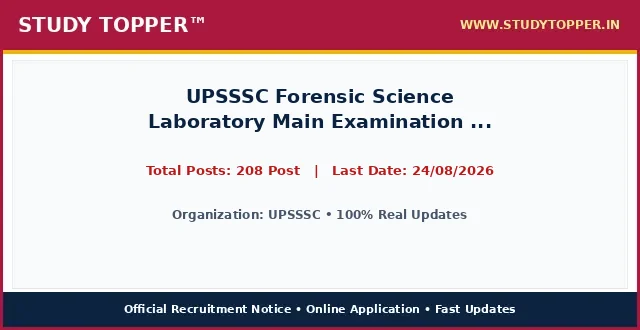
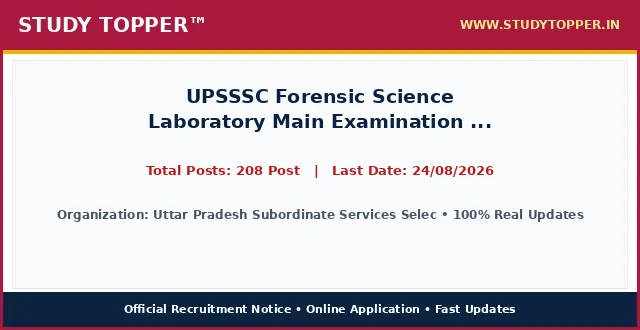
chore(lifecycle): daily auto-sort vacancies and update active dates

Changed region(s): [[0.0938, 0.6364, 0.9375, 0.6667]]

diff --git a/index.html b/index.html
@@ -1580,12 +1580,12 @@ ul.wp-block-latest-posts a:hover {
 </div>
 </div></div>
 <div class="gb-grid-column gb-grid-column-cb185b36"><div class="gb-container gb-container-cb185b36">
-<p class="gb-headline gb-headline-68cafa90 gb-headline-text" style="background-color:#0d13b5 !important; color:#ffffff !important; border-radius:5px !important; min-height:52px !important; height:52px !important; display:flex !important; align-items:center !important; justify-content:center !important; text-align:center !important; padding:4px 6px !important; margin:0 !important; box-sizing:border-box !important; overflow:hidden !important; width:100% !important;"><a href="/rcfl-management-trainee-august26/" rel="noreferrer noopener" style="color:#ffffff !important; text-decoration:none !important; font-weight:700 !important; font-size:13.5px !important; font-family:Arial,Helvetica,sans-serif !important; line-height:1.25 !important; display:flex !important; align-items:center !important; justify-content:center !important; text-align:center !important; width:100% !important; height:100% !important;" target="_blank">RCFL Management Trainee Recruitment 2026 Apply Online for 94 Post - <span class="agy-blinking-badge agy-urgent-blink">2 Days Left!</span></a></p>
+<p class="gb-headline gb-headline-68cafa90 gb-headline-text" style="background-color:#0d13b5 !important; color:#ffffff !important; border-radius:5px !important; min-height:52px !important; height:52px !important; display:flex !important; align-items:center !important; justify-content:center !important; text-align:center !important; padding:4px 6px !important; margin:0 !important; box-sizing:border-box !important; overflow:hidden !important; width:100% !important;"><a href="/upsssc-paramedical-fsl-15-exam-2026/" rel="noreferrer noopener" style="color:#ffffff !important; text-decoration:none !important; font-weight:700 !important; font-size:13.5px !important; font-family:Arial,Helvetica,sans-serif !important; line-height:1.25 !important; display:flex !important; align-items:center !important; justify-content:center !important; text-align:center !important; width:100% !important; height:100% !important;" target="_blank">UPSSSC Forensic Science Laboratory Main Examination 2026 Apply Online for 208 Post - <span class="agy-blinking-badge agy-urgent-blink">2 Days Left!</span></a></p>
 </div></div>
 </div>
 <div class="gb-grid-wrapper gb-grid-wrapper-389edcd7">
 <div class="gb-grid-column gb-grid-column-962a1393"><div class="gb-container gb-container-962a1393">
-<p class="gb-headline gb-headline-106fdfbe gb-headline-text" style="background-color:#868a08 !important; color:#ffffff !important; border-radius:5px !important; min-height:52px !important; height:52px !important; display:flex !important; align-items:center !important; justify-content:center !important; text-align:center !important; padding:4px 6px !important; margin:0 !important; box-sizing:border-box !important; overflow:hidden !important; width:100% !important;"><a href="/upsssc-paramedical-fsl-15-exam-2026/" rel="noreferrer noopener" style="color:#ffffff !important; text-decoration:none !important; font-weight:700 !important; font-size:13.5px !important; font-family:Arial,Helvetica,sans-serif !important; line-height:1.25 !important; display:flex !important; align-items:center !important; justify-content:center !important; text-align:center !important; width:100% !important; height:100% !important;" target="_blank">UPSSSC Forensic Science Laboratory Main Examination 2026 Apply Online for 208 Post - <span class="agy-blinking-badge agy-urgent-blink">2 Days Left!</span></a></p>
+<p class="gb-headline gb-headline-106fdfbe gb-headline-text" style="background-color:#868a08 !important; color:#ffffff !important; border-radius:5px !important; min-height:52px !important; height:52px !important; display:flex !important; align-items:center !important; justify-content:center !important; text-align:center !important; padding:4px 6px !important; margin:0 !important; box-sizing:border-box !important; overflow:hidden !important; width:100% !important;"><a href="/rcfl-management-trainee-august26/" rel="noreferrer noopener" style="color:#ffffff !important; text-decoration:none !important; font-weight:700 !important; font-size:13.5px !important; font-family:Arial,Helvetica,sans-serif !important; line-height:1.25 !important; display:flex !important; align-items:center !important; justify-content:center !important; text-align:center !important; width:100% !important; height:100% !important;" target="_blank">RCFL Management Trainee Recruitment 2026 Apply Online for 94 Post - <span class="agy-blinking-badge agy-urgent-blink">2 Days Left!</span></a></p>
 </div></div>
 <div class="gb-grid-column gb-grid-column-48ff7430"><div class="gb-container gb-container-48ff7430">
 <p class="gb-headline gb-headline-19f08da4 gb-headline-text" style="background-color:#0080ff !important; color:#ffffff !important; border-radius:5px !important; min-height:52px !important; height:52px !important; display:flex !important; align-items:center !important; justify-content:center !important; text-align:center !important; padding:4px 6px !important; margin:0 !important; box-sizing:border-box !important; overflow:hidden !important; width:100% !important;"><a href="/atal-awasiya-lucknow-aug2026/" rel="noreferrer noopener" style="color:#ffffff !important; text-decoration:none !important; font-weight:700 !important; font-size:13.5px !important; font-family:Arial,Helvetica,sans-serif !important; line-height:1.25 !important; display:flex !important; align-items:center !important; justify-content:center !important; text-align:center !important; width:100% !important; height:100% !important;" target="_blank">Uttar Pradesh UP Atal Awasiya Vidyalaya Lucknow Outsourcing Recruitment Application Form 2026 - <span class="agy-blinking-badge agy-urgent-blink">2 Days Left!</span></a></p>
@@ -1615,7 +1615,7 @@ ul.wp-block-latest-posts a:hover {
 </div></div></div>
 <div class="gb-grid-column gb-grid-column-c7488d9a"><div class="gb-container gb-container-c7488d9a"><div class="gb-inside-container">
 <p class="gb-headline gb-headline-5badebdf gb-headline-text" style="background-color:#ab183d !important; color:#ffffff !important; text-align:center; font-weight:700; padding:6px 0;">Latest Jobs</p>
-<ul class="wp-block-latest-posts__list 6colm_box wp-block-latest-posts"><li><a class="wp-block-latest-posts__post-title" href="/up-sewayojan-vibhag-mts-august26/">UP Sewayojan Vibhag Recruitment 2026 Multi Tasking Staff MTS Apply Online for 45 Post - <span class="agy-blinking-badge agy-urgent-blink">Last Date Today!</span></a></li><li><a class="wp-block-latest-posts__post-title" href="/mpesb-group-2-sub-group-4-patwari-2026/">MPESB Group-2 Sub Group-4 Patwari Recruitment 2026 - <span class="agy-blinking-badge agy-urgent-blink">1 Days Left!</span></a></li><li><a class="wp-block-latest-posts__post-title" href="/mpesb-group2-subgroup-4-aug26/">MPESB MP Group 2 Sub Group 4 Patwari and Other Post Combined Recruitment Test – 2026 Apply Online 2106 Post - <span class="agy-blinking-badge agy-urgent-blink">1 Days Left!</span></a></li><li><a class="wp-block-latest-posts__post-title" href="/rcfl-management-trainee-august26/">RCFL Management Trainee Recruitment 2026 Apply Online for 94 Post - <span class="agy-blinking-badge agy-urgent-blink">2 Days Left!</span></a></li><li><a class="wp-block-latest-posts__post-title" href="/upsssc-paramedical-fsl-15-exam-2026/">UPSSSC Forensic Science Laboratory Main Examination 2026 Apply Online for 208 Post - <span class="agy-blinking-badge agy-urgent-blink">2 Days Left!</span></a></li><li><a class="wp-block-latest-posts__post-title" href="/atal-awasiya-lucknow-aug2026/">Uttar Pradesh UP Atal Awasiya Vidyalaya Lucknow Outsourcing Recruitment Application Form 2026 - <span class="agy-blinking-badge agy-urgent-blink">2 Days Left!</span></a></li><li><a class="wp-block-latest-posts__post-title" href="/rrvunl-je-junior-assistant-2026/">RRVUNL JE, Junior Assistant Recruitment 2026 - <span class="agy-blinking-badge agy-urgent-blink">3 Days Left!</span></a></li><li><a class="wp-block-latest-posts__post-title" href="/rvunl-june26/">Rajasthan RVUNL for JE, Junior Accountant &amp; Junior Assistant/ Commercial Assistant-II Common Recruitment 2026 Apply Online for 2005 Post - <span class="agy-blinking-badge agy-urgent-blink">3 Days Left!</span></a></li><li><a class="wp-block-latest-posts__post-title" href="/up-meerut-ecce-educator-august26/">UP Basic Education ECCE Educator Meerut Outsourcing Recruitment 2026 Apply Online For 108 Post - <span class="agy-blinking-badge agy-urgent-blink">3 Days Left!</span></a></li><li><a class="wp-block-latest-posts__post-title" href="/up-bijnor-ecce-educator-july26/">Uttar Pradesh UP Basic Education Bijnor ECCE Educator Outsourcing Recruitment 2026 Apply Online For 159 Post - <span class="agy-blinking-badge agy-extended-blink">Date Extended!</span></a></li><li><a class="wp-block-latest-posts__post-title" href="/upsrtc-bus-conductor-august26/">UPSRTC उत्तर प्रदेश राज्य सड़क परिवहन निगम Bus Conductor Gonda, Bahraich, Balrampur Outsourcing Recruitment Online Form 2026</a></li><li><a class="wp-block-latest-posts__post-title" href="/hphc-various-post-august26/">Himachal Pradesh HP High Court Various Post Recruitment 2026 Apply Online for 388 Post</a></li></ul>
+<ul class="wp-block-latest-posts__list 6colm_box wp-block-latest-posts"><li><a class="wp-block-latest-posts__post-title" href="/up-sewayojan-vibhag-mts-august26/">UP Sewayojan Vibhag Recruitment 2026 Multi Tasking Staff MTS Apply Online for 45 Post - <span class="agy-blinking-badge agy-urgent-blink">Last Date Today!</span></a></li><li><a class="wp-block-latest-posts__post-title" href="/mpesb-group-2-sub-group-4-patwari-2026/">MPESB Group-2 Sub Group-4 Patwari Recruitment 2026 - <span class="agy-blinking-badge agy-urgent-blink">1 Days Left!</span></a></li><li><a class="wp-block-latest-posts__post-title" href="/mpesb-group2-subgroup-4-aug26/">MPESB MP Group 2 Sub Group 4 Patwari and Other Post Combined Recruitment Test – 2026 Apply Online 2106 Post - <span class="agy-blinking-badge agy-urgent-blink">1 Days Left!</span></a></li><li><a class="wp-block-latest-posts__post-title" href="/upsssc-paramedical-fsl-15-exam-2026/">UPSSSC Forensic Science Laboratory Main Examination 2026 Apply Online for 208 Post - <span class="agy-blinking-badge agy-urgent-blink">2 Days Left!</span></a></li><li><a class="wp-block-latest-posts__post-title" href="/rcfl-management-trainee-august26/">RCFL Management Trainee Recruitment 2026 Apply Online for 94 Post - <span class="agy-blinking-badge agy-urgent-blink">2 Days Left!</span></a></li><li><a class="wp-block-latest-posts__post-title" href="/atal-awasiya-lucknow-aug2026/">Uttar Pradesh UP Atal Awasiya Vidyalaya Lucknow Outsourcing Recruitment Application Form 2026 - <span class="agy-blinking-badge agy-urgent-blink">2 Days Left!</span></a></li><li><a class="wp-block-latest-posts__post-title" href="/rrvunl-je-junior-assistant-2026/">RRVUNL JE, Junior Assistant Recruitment 2026 - <span class="agy-blinking-badge agy-urgent-blink">3 Days Left!</span></a></li><li><a class="wp-block-latest-posts__post-title" href="/rvunl-june26/">Rajasthan RVUNL for JE, Junior Accountant &amp; Junior Assistant/ Commercial Assistant-II Common Recruitment 2026 Apply Online for 2005 Post - <span class="agy-blinking-badge agy-urgent-blink">3 Days Left!</span></a></li><li><a class="wp-block-latest-posts__post-title" href="/up-meerut-ecce-educator-august26/">UP Basic Education ECCE Educator Meerut Outsourcing Recruitment 2026 Apply Online For 108 Post - <span class="agy-blinking-badge agy-urgent-blink">3 Days Left!</span></a></li><li><a class="wp-block-latest-posts__post-title" href="/up-bijnor-ecce-educator-july26/">Uttar Pradesh UP Basic Education Bijnor ECCE Educator Outsourcing Recruitment 2026 Apply Online For 159 Post - <span class="agy-blinking-badge agy-extended-blink">Date Extended!</span></a></li><li><a class="wp-block-latest-posts__post-title" href="/upsrtc-bus-conductor-august26/">UPSRTC उत्तर प्रदेश राज्य सड़क परिवहन निगम Bus Conductor Gonda, Bahraich, Balrampur Outsourcing Recruitment Online Form 2026</a></li><li><a class="wp-block-latest-posts__post-title" href="/hphc-various-post-august26/">Himachal Pradesh HP High Court Various Post Recruitment 2026 Apply Online for 388 Post</a></li></ul>
 <div class="wp-block-buttons is-content-justification-right is-layout-flex wp-container-core-buttons-is-layout-89b4c9e9 wp-block-buttons-is-layout-flex">
 <div class="wp-block-button"><a class="wp-block-button__link has-base-color has-accent-2-background-color has-text-color has-background has-link-color wp-element-button" href="/latest-jobs/" rel="noreferrer noopener" target="_blank"><strong>View More</strong></a></div>
 </div>

diff --git a/pages/index.html b/pages/index.html
@@ -1580,12 +1580,12 @@ ul.wp-block-latest-posts a:hover {
 </div>
 </div></div>
 <div class="gb-grid-column gb-grid-column-cb185b36"><div class="gb-container gb-container-cb185b36">
-<p class="gb-headline gb-headline-68cafa90 gb-headline-text" style="background-color:#0d13b5 !important; color:#ffffff !important; border-radius:5px !important; min-height:52px !important; height:52px !important; display:flex !important; align-items:center !important; justify-content:center !important; text-align:center !important; padding:4px 6px !important; margin:0 !important; box-sizing:border-box !important; overflow:hidden !important; width:100% !important;"><a href="/rcfl-management-trainee-august26/" rel="noreferrer noopener" style="color:#ffffff !important; text-decoration:none !important; font-weight:700 !important; font-size:13.5px !important; font-family:Arial,Helvetica,sans-serif !important; line-height:1.25 !important; display:flex !important; align-items:center !important; justify-content:center !important; text-align:center !important; width:100% !important; height:100% !important;" target="_blank">RCFL Management Trainee Recruitment 2026 Apply Online for 94 Post - <span class="agy-blinking-badge agy-urgent-blink">2 Days Left!</span></a></p>
+<p class="gb-headline gb-headline-68cafa90 gb-headline-text" style="background-color:#0d13b5 !important; color:#ffffff !important; border-radius:5px !important; min-height:52px !important; height:52px !important; display:flex !important; align-items:center !important; justify-content:center !important; text-align:center !important; padding:4px 6px !important; margin:0 !important; box-sizing:border-box !important; overflow:hidden !important; width:100% !important;"><a href="/upsssc-paramedical-fsl-15-exam-2026/" rel="noreferrer noopener" style="color:#ffffff !important; text-decoration:none !important; font-weight:700 !important; font-size:13.5px !important; font-family:Arial,Helvetica,sans-serif !important; line-height:1.25 !important; display:flex !important; align-items:center !important; justify-content:center !important; text-align:center !important; width:100% !important; height:100% !important;" target="_blank">UPSSSC Forensic Science Laboratory Main Examination 2026 Apply Online for 208 Post - <span class="agy-blinking-badge agy-urgent-blink">2 Days Left!</span></a></p>
 </div></div>
 </div>
 <div class="gb-grid-wrapper gb-grid-wrapper-389edcd7">
 <div class="gb-grid-column gb-grid-column-962a1393"><div class="gb-container gb-container-962a1393">
-<p class="gb-headline gb-headline-106fdfbe gb-headline-text" style="background-color:#868a08 !important; color:#ffffff !important; border-radius:5px !important; min-height:52px !important; height:52px !important; display:flex !important; align-items:center !important; justify-content:center !important; text-align:center !important; padding:4px 6px !important; margin:0 !important; box-sizing:border-box !important; overflow:hidden !important; width:100% !important;"><a href="/upsssc-paramedical-fsl-15-exam-2026/" rel="noreferrer noopener" style="color:#ffffff !important; text-decoration:none !important; font-weight:700 !important; font-size:13.5px !important; font-family:Arial,Helvetica,sans-serif !important; line-height:1.25 !important; display:flex !important; align-items:center !important; justify-content:center !important; text-align:center !important; width:100% !important; height:100% !important;" target="_blank">UPSSSC Forensic Science Laboratory Main Examination 2026 Apply Online for 208 Post - <span class="agy-blinking-badge agy-urgent-blink">2 Days Left!</span></a></p>
+<p class="gb-headline gb-headline-106fdfbe gb-headline-text" style="background-color:#868a08 !important; color:#ffffff !important; border-radius:5px !important; min-height:52px !important; height:52px !important; display:flex !important; align-items:center !important; justify-content:center !important; text-align:center !important; padding:4px 6px !important; margin:0 !important; box-sizing:border-box !important; overflow:hidden !important; width:100% !important;"><a href="/rcfl-management-trainee-august26/" rel="noreferrer noopener" style="color:#ffffff !important; text-decoration:none !important; font-weight:700 !important; font-size:13.5px !important; font-family:Arial,Helvetica,sans-serif !important; line-height:1.25 !important; display:flex !important; align-items:center !important; justify-content:center !important; text-align:center !important; width:100% !important; height:100% !important;" target="_blank">RCFL Management Trainee Recruitment 2026 Apply Online for 94 Post - <span class="agy-blinking-badge agy-urgent-blink">2 Days Left!</span></a></p>
 </div></div>
 <div class="gb-grid-column gb-grid-column-48ff7430"><div class="gb-container gb-container-48ff7430">
 <p class="gb-headline gb-headline-19f08da4 gb-headline-text" style="background-color:#0080ff !important; color:#ffffff !important; border-radius:5px !important; min-height:52px !important; height:52px !important; display:flex !important; align-items:center !important; justify-content:center !important; text-align:center !important; padding:4px 6px !important; margin:0 !important; box-sizing:border-box !important; overflow:hidden !important; width:100% !important;"><a href="/atal-awasiya-lucknow-aug2026/" rel="noreferrer noopener" style="color:#ffffff !important; text-decoration:none !important; font-weight:700 !important; font-size:13.5px !important; font-family:Arial,Helvetica,sans-serif !important; line-height:1.25 !important; display:flex !important; align-items:center !important; justify-content:center !important; text-align:center !important; width:100% !important; height:100% !important;" target="_blank">Uttar Pradesh UP Atal Awasiya Vidyalaya Lucknow Outsourcing Recruitment Application Form 2026 - <span class="agy-blinking-badge agy-urgent-blink">2 Days Left!</span></a></p>
@@ -1615,7 +1615,7 @@ ul.wp-block-latest-posts a:hover {
 </div></div></div>
 <div class="gb-grid-column gb-grid-column-c7488d9a"><div class="gb-container gb-container-c7488d9a"><div class="gb-inside-container">
 <p class="gb-headline gb-headline-5badebdf gb-headline-text" style="background-color:#ab183d !important; color:#ffffff !important; text-align:center; font-weight:700; padding:6px 0;">Latest Jobs</p>
-<ul class="wp-block-latest-posts__list 6colm_box wp-block-latest-posts"><li><a class="wp-block-latest-posts__post-title" href="/up-sewayojan-vibhag-mts-august26/">UP Sewayojan Vibhag Recruitment 2026 Multi Tasking Staff MTS Apply Online for 45 Post - <span class="agy-blinking-badge agy-urgent-blink">Last Date Today!</span></a></li><li><a class="wp-block-latest-posts__post-title" href="/mpesb-group-2-sub-group-4-patwari-2026/">MPESB Group-2 Sub Group-4 Patwari Recruitment 2026 - <span class="agy-blinking-badge agy-urgent-blink">1 Days Left!</span></a></li><li><a class="wp-block-latest-posts__post-title" href="/mpesb-group2-subgroup-4-aug26/">MPESB MP Group 2 Sub Group 4 Patwari and Other Post Combined Recruitment Test – 2026 Apply Online 2106 Post - <span class="agy-blinking-badge agy-urgent-blink">1 Days Left!</span></a></li><li><a class="wp-block-latest-posts__post-title" href="/rcfl-management-trainee-august26/">RCFL Management Trainee Recruitment 2026 Apply Online for 94 Post - <span class="agy-blinking-badge agy-urgent-blink">2 Days Left!</span></a></li><li><a class="wp-block-latest-posts__post-title" href="/upsssc-paramedical-fsl-15-exam-2026/">UPSSSC Forensic Science Laboratory Main Examination 2026 Apply Online for 208 Post - <span class="agy-blinking-badge agy-urgent-blink">2 Days Left!</span></a></li><li><a class="wp-block-latest-posts__post-title" href="/atal-awasiya-lucknow-aug2026/">Uttar Pradesh UP Atal Awasiya Vidyalaya Lucknow Outsourcing Recruitment Application Form 2026 - <span class="agy-blinking-badge agy-urgent-blink">2 Days Left!</span></a></li><li><a class="wp-block-latest-posts__post-title" href="/rrvunl-je-junior-assistant-2026/">RRVUNL JE, Junior Assistant Recruitment 2026 - <span class="agy-blinking-badge agy-urgent-blink">3 Days Left!</span></a></li><li><a class="wp-block-latest-posts__post-title" href="/rvunl-june26/">Rajasthan RVUNL for JE, Junior Accountant &amp; Junior Assistant/ Commercial Assistant-II Common Recruitment 2026 Apply Online for 2005 Post - <span class="agy-blinking-badge agy-urgent-blink">3 Days Left!</span></a></li><li><a class="wp-block-latest-posts__post-title" href="/up-meerut-ecce-educator-august26/">UP Basic Education ECCE Educator Meerut Outsourcing Recruitment 2026 Apply Online For 108 Post - <span class="agy-blinking-badge agy-urgent-blink">3 Days Left!</span></a></li><li><a class="wp-block-latest-posts__post-title" href="/up-bijnor-ecce-educator-july26/">Uttar Pradesh UP Basic Education Bijnor ECCE Educator Outsourcing Recruitment 2026 Apply Online For 159 Post - <span class="agy-blinking-badge agy-extended-blink">Date Extended!</span></a></li><li><a class="wp-block-latest-posts__post-title" href="/upsrtc-bus-conductor-august26/">UPSRTC उत्तर प्रदेश राज्य सड़क परिवहन निगम Bus Conductor Gonda, Bahraich, Balrampur Outsourcing Recruitment Online Form 2026</a></li><li><a class="wp-block-latest-posts__post-title" href="/hphc-various-post-august26/">Himachal Pradesh HP High Court Various Post Recruitment 2026 Apply Online for 388 Post</a></li></ul>
+<ul class="wp-block-latest-posts__list 6colm_box wp-block-latest-posts"><li><a class="wp-block-latest-posts__post-title" href="/up-sewayojan-vibhag-mts-august26/">UP Sewayojan Vibhag Recruitment 2026 Multi Tasking Staff MTS Apply Online for 45 Post - <span class="agy-blinking-badge agy-urgent-blink">Last Date Today!</span></a></li><li><a class="wp-block-latest-posts__post-title" href="/mpesb-group-2-sub-group-4-patwari-2026/">MPESB Group-2 Sub Group-4 Patwari Recruitment 2026 - <span class="agy-blinking-badge agy-urgent-blink">1 Days Left!</span></a></li><li><a class="wp-block-latest-posts__post-title" href="/mpesb-group2-subgroup-4-aug26/">MPESB MP Group 2 Sub Group 4 Patwari and Other Post Combined Recruitment Test – 2026 Apply Online 2106 Post - <span class="agy-blinking-badge agy-urgent-blink">1 Days Left!</span></a></li><li><a class="wp-block-latest-posts__post-title" href="/upsssc-paramedical-fsl-15-exam-2026/">UPSSSC Forensic Science Laboratory Main Examination 2026 Apply Online for 208 Post - <span class="agy-blinking-badge agy-urgent-blink">2 Days Left!</span></a></li><li><a class="wp-block-latest-posts__post-title" href="/rcfl-management-trainee-august26/">RCFL Management Trainee Recruitment 2026 Apply Online for 94 Post - <span class="agy-blinking-badge agy-urgent-blink">2 Days Left!</span></a></li><li><a class="wp-block-latest-posts__post-title" href="/atal-awasiya-lucknow-aug2026/">Uttar Pradesh UP Atal Awasiya Vidyalaya Lucknow Outsourcing Recruitment Application Form 2026 - <span class="agy-blinking-badge agy-urgent-blink">2 Days Left!</span></a></li><li><a class="wp-block-latest-posts__post-title" href="/rrvunl-je-junior-assistant-2026/">RRVUNL JE, Junior Assistant Recruitment 2026 - <span class="agy-blinking-badge agy-urgent-blink">3 Days Left!</span></a></li><li><a class="wp-block-latest-posts__post-title" href="/rvunl-june26/">Rajasthan RVUNL for JE, Junior Accountant &amp; Junior Assistant/ Commercial Assistant-II Common Recruitment 2026 Apply Online for 2005 Post - <span class="agy-blinking-badge agy-urgent-blink">3 Days Left!</span></a></li><li><a class="wp-block-latest-posts__post-title" href="/up-meerut-ecce-educator-august26/">UP Basic Education ECCE Educator Meerut Outsourcing Recruitment 2026 Apply Online For 108 Post - <span class="agy-blinking-badge agy-urgent-blink">3 Days Left!</span></a></li><li><a class="wp-block-latest-posts__post-title" href="/up-bijnor-ecce-educator-july26/">Uttar Pradesh UP Basic Education Bijnor ECCE Educator Outsourcing Recruitment 2026 Apply Online For 159 Post - <span class="agy-blinking-badge agy-extended-blink">Date Extended!</span></a></li><li><a class="wp-block-latest-posts__post-title" href="/upsrtc-bus-conductor-august26/">UPSRTC उत्तर प्रदेश राज्य सड़क परिवहन निगम Bus Conductor Gonda, Bahraich, Balrampur Outsourcing Recruitment Online Form 2026</a></li><li><a class="wp-block-latest-posts__post-title" href="/hphc-various-post-august26/">Himachal Pradesh HP High Court Various Post Recruitment 2026 Apply Online for 388 Post</a></li></ul>
 <div class="wp-block-buttons is-content-justification-right is-layout-flex wp-container-core-buttons-is-layout-89b4c9e9 wp-block-buttons-is-layout-flex">
 <div class="wp-block-button"><a class="wp-block-button__link has-base-color has-accent-2-background-color has-text-color has-background has-link-color wp-element-button" href="/latest-jobs/" rel="noreferrer noopener" target="_blank"><strong>View More</strong></a></div>
 </div>

diff --git a/pages/upsssc-paramedical-fsl-15-exam-2026.html b/pages/upsssc-paramedical-fsl-15-exam-2026.html
@@ -987,12 +987,12 @@ ul.wp-block-latest-posts a:hover {
 <main class="site-main" id="main">
 <div class="gb-container gb-container-b39c368c">
 <h1 class="gb-headline gb-headline-e52a0102 gb-headline-text" style="font-size: 22px; font-weight: 700; color: #0000cd; text-align: left; margin: 8px 0 4px 0; line-height: 1.3; width: 100%; font-family: '-apple-system, BlinkMacSystemFont, 'Segoe UI', Roboto, 'Helvetica Neue', Arial, sans-serif', Times, serif, Hind, sans-serif;">UPSSSC Forensic Science Laboratory Main Examination 2026 Apply Online for 208 Post</h1>
-<div class="gb-container gb-container-659bd175"><p style="color: #cd0808; font-weight: 700; font-size: 15px; margin: 2px 0 7px 0; text-align: left; font-family: '-apple-system, BlinkMacSystemFont, 'Segoe UI', Roboto, 'Helvetica Neue', Arial, sans-serif', Times, serif, Hind, sans-serif;">Post Date: August 22, 2026 12:36 PM</p></div>
-<p class="gb-headline gb-headline-550ae316 short_Details gb-headline-text" style="width: 100%; max-width: 100%; font-size: 16.8px; line-height: 1.55; color: #000000; text-align: justify; text-justify: inter-word; margin: 8px 0 14px 0; display: block; font-family: '-apple-system, BlinkMacSystemFont, 'Segoe UI', Roboto, 'Helvetica Neue', Arial, sans-serif', Times, serif, Hind, sans-serif;"><strong style="color: #0000cd;">UPSSSC</strong> has officially published the recruitment notice <strong style="color: #cd0808;">UPSSSC Forensic Science Laboratory Main Examination 2026 Apply Online for 208 Post</strong> under notification number 2026. Online applications are invited for 208 Post across multiple departments and cadre positions. Interested candidates possessing the requisite educational qualifications and falling between 18 Years to 40 Years can complete their online registration before the application deadline of 24/08/2026. Applicants should read the eligibility criteria, category reservation rules, and exam scheme thoroughly before submitting applications.</p>
+<div class="gb-container gb-container-659bd175"><p style="color: #cd0808; font-weight: 700; font-size: 15px; margin: 2px 0 7px 0; text-align: left; font-family: '-apple-system, BlinkMacSystemFont, 'Segoe UI', Roboto, 'Helvetica Neue', Arial, sans-serif', Times, serif, Hind, sans-serif;">Post Date: August 22, 2026 12:46 PM</p></div>
+<p class="gb-headline gb-headline-550ae316 short_Details gb-headline-text" style="width: 100%; max-width: 100%; font-size: 16.8px; line-height: 1.55; color: #000000; text-align: justify; text-justify: inter-word; margin: 8px 0 14px 0; display: block; font-family: '-apple-system, BlinkMacSystemFont, 'Segoe UI', Roboto, 'Helvetica Neue', Arial, sans-serif', Times, serif, Hind, sans-serif;"><strong style="color: #0000cd;">Uttar Pradesh Subordinate Services Selection Commission (UPSSSC)</strong> has officially published the recruitment notice <strong style="color: #cd0808;">UPSSSC Forensic Science Laboratory Main Examination 2026 Apply Online for 208 Post</strong> under notification number Official Notification 2026. Online applications are invited for 208 Post across multiple departments and cadre positions. Interested candidates possessing the requisite educational qualifications and falling between 18 Years to 40 Years can complete their online registration before the application deadline of 24/08/2026. Applicants should read the eligibility criteria, category reservation rules, and exam scheme thoroughly before submitting applications.</p>
 <div class="gb-container gb-container-9849916c"><div class="social-buttons-compact" style="display: flex; justify-content: flex-start; align-items: center; gap: 10px; margin: 10px 0 16px 0; width: 100%;"><a class="social-btn-compact wa" href="https://whatsapp.com/channel/0029Va9xyz" rel="noopener" style="background-color: #00d084; color: #ffffff; padding: 10px 18px; border-radius: 4px; text-decoration: none; font-weight: bold; font-size: 15.5px; display: inline-flex; align-items: center; justify-content: center; height: auto;" target="_blank">WhatsApp</a><a class="social-btn-compact tg" href="https://t.me/studytopperofficial" rel="noopener" style="background-color: #0088cc; color: #ffffff; padding: 10px 18px; border-radius: 4px; text-decoration: none; font-weight: bold; font-size: 15.5px; display: inline-flex; align-items: center; justify-content: center; height: auto;" target="_blank">Telegram</a></div></div>
 <div class="gb-container gb-container-f58e6ca1" style="border: 2px solid #5b032f; border-radius: 4px; overflow: hidden; margin: 15px 0 20px 0; background-color: #ffffff; width: 100%; box-sizing: border-box;">
 <h2 class="gb-headline gb-headline-2ca5a791 gb-headline-text" style="font-size: 16px; font-weight: 700; text-align: center; color: #ef0303; line-height: 1.3; padding: 6px 4px; margin: 0; background: #ffffff; font-family: '-apple-system, BlinkMacSystemFont, 'Segoe UI', Roboto, 'Helvetica Neue', Arial, sans-serif', Times, serif, Hind, sans-serif;">UPSSSC Forensic Science Laboratory Main Examination 2026 Apply Online for 208 Post &ndash; Latest Details &amp; Updates</h2>
-<h3 class="gb-headline gb-headline-7d5f86e8 gb-headline-text" style="font-size: 16px; font-weight: 600; text-align: center; color: #009703; line-height: 1.25; margin: 0; padding: 2px 4px 6px 4px; background: #ffffff; font-family: '-apple-system, BlinkMacSystemFont, 'Segoe UI', Roboto, 'Helvetica Neue', Arial, sans-serif', Times, serif, Hind, sans-serif;">UPSSSC : Details &amp; Summary</h3>
+<h3 class="gb-headline gb-headline-7d5f86e8 gb-headline-text" style="font-size: 16px; font-weight: 600; text-align: center; color: #009703; line-height: 1.25; margin: 0; padding: 2px 4px 6px 4px; background: #ffffff; font-family: '-apple-system, BlinkMacSystemFont, 'Segoe UI', Roboto, 'Helvetica Neue', Arial, sans-serif', Times, serif, Hind, sans-serif;">Uttar Pradesh Subordinate Services Selection Commission (UPSSSC) : Details &amp; Summary</h3>
 <p class="gb-headline gb-headline-79adf169 gb-headline-text" style="margin: 0 0 6px 0; font-family: '-apple-system, BlinkMacSystemFont, 'Segoe UI', Roboto, 'Helvetica Neue', Arial, sans-serif', Times, serif, Hind, sans-serif; text-align: center; font-size: 18px; font-weight: 700;"><a href="/" style="color: #0000ff; text-decoration: underline;">StudyTopper.in</a></p>
 
 <style id="st-post-boxes-responsive-css">
@@ -1047,7 +1047,7 @@ ul.wp-block-latest-posts a:hover {
 <div class="st-grid-row" style="display: flex; flex-wrap: wrap; width: 100%; border-top: 2px solid #5b032f; margin: 0; padding: 0; box-sizing: border-box;">
   <!-- Left Col: Age Limits -->
   <div class="st-col-half st-col-border-right" style="box-sizing: border-box; vertical-align: top;">
-    <div style="background-color: #046132; color: #ffffff; padding: 8px 10px; font-size: 17px; font-weight: 700; text-align: center; font-family: '-apple-system, BlinkMacSystemFont, 'Segoe UI', Roboto, 'Helvetica Neue', Arial, sans-serif', Times, serif, Hind, sans-serif;">UPSSSC : Age Limits As On 01/07/2026</div>
+    <div style="background-color: #046132; color: #ffffff; padding: 8px 10px; font-size: 17px; font-weight: 700; text-align: center; font-family: '-apple-system, BlinkMacSystemFont, 'Segoe UI', Roboto, 'Helvetica Neue', Arial, sans-serif', Times, serif, Hind, sans-serif;">Uttar Pradesh Subordinate Services Selection Commission (UPSSSC) : Age Limits As On 01/07/2026</div>
     <div style="padding: 12px 14px; background-color: #ffffff;">
       <ul style="padding-left: 20px; margin: 0; list-style-type: disc; text-align: left; font-size: 14pt; line-height: 1.6; font-family: '-apple-system, BlinkMacSystemFont, 'Segoe UI', Roboto, 'Helvetica Neue', Arial, sans-serif', Times, serif, Hind, sans-serif;">
         <li><span style="font-size: 14pt;">Minimum Age : <strong>21 Years</strong></span></li><li><span style="font-size: 14pt;">Maximum Age : <strong>40 Years</strong></span></li><li><span style="font-size: 14pt;">Age Relaxation : <strong>Age Relaxation Extra as per UPSSSC Main Recruitment Rules Advt. No. 15-Exam/2026.</strong></span></li>
@@ -1073,7 +1073,7 @@ ul.wp-block-latest-posts a:hover {
 <table style="border-collapse: collapse; width: 100%; height: 150px;">
 <tbody>
 <tr style="height: 25px;">
-<td colspan="2" style="width: 50%; text-align: center; height: 25px;"><span style="background-color: #000080; color: #ffffff; font-size: 14pt;"><strong> UPSSSC : Category Wise Vacancy Details </strong></span></td>
+<td colspan="2" style="width: 50%; text-align: center; height: 25px;"><span style="background-color: #000080; color: #ffffff; font-size: 14pt;"><strong> Uttar Pradesh Subordinate Services Selection Commission (UPSSSC) : Category Wise Vacancy Details </strong></span></td>
 </tr>
 <tr style="height: 25px;">
 <td style="width: 50%; height: 25px; text-align: center;"><span style="font-size: 14pt;"><strong>Category / Particulars</strong></span></td>
@@ -1117,7 +1117,7 @@ ul.wp-block-latest-posts a:hover {
 <table style="border-collapse: collapse; width: 100%;">
 <tbody>
 <tr>
-<td style="width: 100%; text-align: center;"><span style="background-color: #000080; color: #ffffff; font-size: 14pt; font-weight: bold; display: block; padding: 6px;"> How to Fill UPSSSC Online Application Form </span></td>
+<td style="width: 100%; text-align: center;"><span style="background-color: #000080; color: #ffffff; font-size: 14pt; font-weight: bold; display: block; padding: 6px;"> How to Fill Uttar Pradesh Subordinate Services Selection Commission (UPSSSC) Online Application Form </span></td>
 </tr>
 <tr>
 <td style="width: 100%;"><ol style="margin:0; padding-left:18px; text-align: left !important; list-style-position: outside !important"><li style="margin-bottom:6px; text-align: left !important;">UPSSSC Forensic Science Laboratory (Scientific Assistant & Lab Assistant) Main Recruitment for Various Post Candidate Can Apply Between</li><li style="margin-bottom:6px; text-align: left !important;">27/07/2026 to 24/08/2026</li><li style="margin-bottom:6px; text-align: left !important;">Candidate Read the Notification Before Apply the Recruitment Application Form in UPSSSC Forensic Science Laboratory Main Examination Advt. No. 15-Exam/2026 Recruitment 2026.</li><li style="margin-bottom:6px; text-align: left !important;">Kindly Check and Collect the All Document – Eligibility, ID Proof, Address Details, Basic Details.</li><li style="margin-bottom:6px; text-align: left !important;">Kindly Ready Scan Document Related to Recruitment Form – Photo, Sign, ID Proof, Etc.</li><li style="margin-bottom:6px; text-align: left !important;">Before Submit the Application Form Must Check the Preview and All Column Carefully.</li><li style="margin-bottom:6px; text-align: left !important;">If Candidate Required to Paying the Application Fee Must Submit. If You have Not the Required Application Fees Your Form is Not Completed.</li><li style="margin-bottom:6px; text-align: left !important;">Take A Print Out of Final Submitted Form.</li><li style="margin-bottom:6px; text-align: left !important;">Resize candidate photograph and signature accurately using the <a href="https://indtool.in" rel="noopener" target="_blank"><strong>StudyTopper Tools</strong></a> image resizer at indtool.in.</li></ol></td>
@@ -1128,7 +1128,7 @@ ul.wp-block-latest-posts a:hover {
 <table style="border-collapse: collapse; width: 100%;">
 <tbody>
 <tr>
-<td style="width: 100%; text-align: center;"><span style="background-color: #000080; color: #ffffff; font-size: 14pt;"><strong><span style="color: #ffffff;"> UPSSSC Recruitment 2026 : Mode Of Selection </span></strong></span></td>
+<td style="width: 100%; text-align: center;"><span style="background-color: #000080; color: #ffffff; font-size: 14pt;"><strong><span style="color: #ffffff;"> Uttar Pradesh Subordinate Services Selection Commission (UPSSSC) Recruitment 2026 : Mode Of Selection </span></strong></span></td>
 </tr>
 <tr>
 <td style="width: 100%;">

diff --git a/original_index.html b/original_index.html
@@ -1042,12 +1042,12 @@ ul.wp-block-latest-posts a:hover {
 </div>
 </div></div>
 <div class="gb-grid-column gb-grid-column-cb185b36"><div class="gb-container gb-container-cb185b36">
-<p class="gb-headline gb-headline-68cafa90 gb-headline-text"><a href="/rcfl-management-trainee-august26/" rel="noreferrer noopener" target="_blank">RCFL Management Trainee Recruitment 2026 Apply Online for 94 Post - <span class="agy-blinking-badge agy-urgent-blink">2 Days Left!</span></a></p>
+<p class="gb-headline gb-headline-68cafa90 gb-headline-text"><a href="/upsssc-paramedical-fsl-15-exam-2026/" rel="noreferrer noopener" target="_blank">UPSSSC Forensic Science Laboratory Main Examination 2026 Apply Online for 208 Post - <span class="agy-blinking-badge agy-urgent-blink">2 Days Left!</span></a></p>
 </div></div>
 </div>
 <div class="gb-grid-wrapper gb-grid-wrapper-389edcd7">
 <div class="gb-grid-column gb-grid-column-962a1393"><div class="gb-container gb-container-962a1393">
-<p class="gb-headline gb-headline-106fdfbe gb-headline-text"><a href="/upsssc-paramedical-fsl-15-exam-2026/" rel="noreferrer noopener" target="_blank">UPSSSC Forensic Science Laboratory Main Examination 2026 Apply Online for 208 Post - <span class="agy-blinking-badge agy-urgent-blink">2 Days Left!</span></a></p>
+<p class="gb-headline gb-headline-106fdfbe gb-headline-text"><a href="/rcfl-management-trainee-august26/" rel="noreferrer noopener" target="_blank">RCFL Management Trainee Recruitment 2026 Apply Online for 94 Post - <span class="agy-blinking-badge agy-urgent-blink">2 Days Left!</span></a></p>
 </div></div>
 <div class="gb-grid-column gb-grid-column-48ff7430"><div class="gb-container gb-container-48ff7430">
 <p class="gb-headline gb-headline-19f08da4 gb-headline-text"><a href="/atal-awasiya-lucknow-aug2026/" rel="noreferrer noopener" target="_blank">Uttar Pradesh UP Atal Awasiya Vidyalaya Lucknow Outsourcing Recruitment Application Form 2026 - <span class="agy-blinking-badge agy-urgent-blink">2 Days Left!</span></a></p>
@@ -1078,7 +1078,7 @@ ul.wp-block-latest-posts a:hover {
 </div></div></div>
 <div class="gb-grid-column gb-grid-column-c7488d9a"><div class="gb-container gb-container-c7488d9a"><div class="gb-inside-container">
 <p class="gb-headline gb-headline-5badebdf gb-headline-text">Latest Jobs</p>
-<ul class="wp-block-latest-posts__list 6colm_box wp-block-latest-posts"><li><a class="wp-block-latest-posts__post-title" href="/up-sewayojan-vibhag-mts-august26/">UP Sewayojan Vibhag Recruitment 2026 Multi Tasking Staff MTS Apply Online for 45 Post - <span class="agy-blinking-badge agy-urgent-blink">Last Date Today!</span></a></li><li><a class="wp-block-latest-posts__post-title" href="/mpesb-group-2-sub-group-4-patwari-2026/">MPESB Group-2 Sub Group-4 Patwari Recruitment 2026 - <span class="agy-blinking-badge agy-urgent-blink">1 Days Left!</span></a></li><li><a class="wp-block-latest-posts__post-title" href="/mpesb-group2-subgroup-4-aug26/">MPESB MP Group 2 Sub Group 4 Patwari and Other Post Combined Recruitment Test – 2026 Apply Online 2106 Post - <span class="agy-blinking-badge agy-urgent-blink">1 Days Left!</span></a></li><li><a class="wp-block-latest-posts__post-title" href="/rcfl-management-trainee-august26/">RCFL Management Trainee Recruitment 2026 Apply Online for 94 Post - <span class="agy-blinking-badge agy-urgent-blink">2 Days Left!</span></a></li><li><a class="wp-block-latest-posts__post-title" href="/upsssc-paramedical-fsl-15-exam-2026/">UPSSSC Forensic Science Laboratory Main Examination 2026 Apply Online for 208 Post - <span class="agy-blinking-badge agy-urgent-blink">2 Days Left!</span></a></li><li><a class="wp-block-latest-posts__post-title" href="/atal-awasiya-lucknow-aug2026/">Uttar Pradesh UP Atal Awasiya Vidyalaya Lucknow Outsourcing Recruitment Application Form 2026 - <span class="agy-blinking-badge agy-urgent-blink">2 Days Left!</span></a></li><li><a class="wp-block-latest-posts__post-title" href="/rrvunl-je-junior-assistant-2026/">RRVUNL JE, Junior Assistant Recruitment 2026 - <span class="agy-blinking-badge agy-urgent-blink">3 Days Left!</span></a></li><li><a class="wp-block-latest-posts__post-title" href="/rvunl-june26/">Rajasthan RVUNL for JE, Junior Accountant &amp; Junior Assistant/ Commercial Assistant-II Common Recruitment 2026 Apply Online for 2005 Post - <span class="agy-blinking-badge agy-urgent-blink">3 Days Left!</span></a></li><li><a class="wp-block-latest-posts__post-title" href="/up-meerut-ecce-educator-august26/">UP Basic Education ECCE Educator Meerut Outsourcing Recruitment 2026 Apply Online For 108 Post - <span class="agy-blinking-badge agy-urgent-blink">3 Days Left!</span></a></li><li><a class="wp-block-latest-posts__post-title" href="/up-bijnor-ecce-educator-july26/">Uttar Pradesh UP Basic Education Bijnor ECCE Educator Outsourcing Recruitment 2026 Apply Online For 159 Post - <span class="agy-blinking-badge agy-extended-blink">Date Extended!</span></a></li><li><a class="wp-block-latest-posts__post-title" href="/upsrtc-bus-conductor-august26/">UPSRTC उत्तर प्रदेश राज्य सड़क परिवहन निगम Bus Conductor Gonda, Bahraich, Balrampur Outsourcing Recruitment Online Form 2026</a></li><li><a class="wp-block-latest-posts__post-title" href="/hphc-various-post-august26/">Himachal Pradesh HP High Court Various Post Recruitment 2026 Apply Online for 388 Post</a></li></ul>
+<ul class="wp-block-latest-posts__list 6colm_box wp-block-latest-posts"><li><a class="wp-block-latest-posts__post-title" href="/up-sewayojan-vibhag-mts-august26/">UP Sewayojan Vibhag Recruitment 2026 Multi Tasking Staff MTS Apply Online for 45 Post - <span class="agy-blinking-badge agy-urgent-blink">Last Date Today!</span></a></li><li><a class="wp-block-latest-posts__post-title" href="/mpesb-group-2-sub-group-4-patwari-2026/">MPESB Group-2 Sub Group-4 Patwari Recruitment 2026 - <span class="agy-blinking-badge agy-urgent-blink">1 Days Left!</span></a></li><li><a class="wp-block-latest-posts__post-title" href="/mpesb-group2-subgroup-4-aug26/">MPESB MP Group 2 Sub Group 4 Patwari and Other Post Combined Recruitment Test – 2026 Apply Online 2106 Post - <span class="agy-blinking-badge agy-urgent-blink">1 Days Left!</span></a></li><li><a class="wp-block-latest-posts__post-title" href="/upsssc-paramedical-fsl-15-exam-2026/">UPSSSC Forensic Science Laboratory Main Examination 2026 Apply Online for 208 Post - <span class="agy-blinking-badge agy-urgent-blink">2 Days Left!</span></a></li><li><a class="wp-block-latest-posts__post-title" href="/rcfl-management-trainee-august26/">RCFL Management Trainee Recruitment 2026 Apply Online for 94 Post - <span class="agy-blinking-badge agy-urgent-blink">2 Days Left!</span></a></li><li><a class="wp-block-latest-posts__post-title" href="/atal-awasiya-lucknow-aug2026/">Uttar Pradesh UP Atal Awasiya Vidyalaya Lucknow Outsourcing Recruitment Application Form 2026 - <span class="agy-blinking-badge agy-urgent-blink">2 Days Left!</span></a></li><li><a class="wp-block-latest-posts__post-title" href="/rrvunl-je-junior-assistant-2026/">RRVUNL JE, Junior Assistant Recruitment 2026 - <span class="agy-blinking-badge agy-urgent-blink">3 Days Left!</span></a></li><li><a class="wp-block-latest-posts__post-title" href="/rvunl-june26/">Rajasthan RVUNL for JE, Junior Accountant &amp; Junior Assistant/ Commercial Assistant-II Common Recruitment 2026 Apply Online for 2005 Post - <span class="agy-blinking-badge agy-urgent-blink">3 Days Left!</span></a></li><li><a class="wp-block-latest-posts__post-title" href="/up-meerut-ecce-educator-august26/">UP Basic Education ECCE Educator Meerut Outsourcing Recruitment 2026 Apply Online For 108 Post - <span class="agy-blinking-badge agy-urgent-blink">3 Days Left!</span></a></li><li><a class="wp-block-latest-posts__post-title" href="/up-bijnor-ecce-educator-july26/">Uttar Pradesh UP Basic Education Bijnor ECCE Educator Outsourcing Recruitment 2026 Apply Online For 159 Post - <span class="agy-blinking-badge agy-extended-blink">Date Extended!</span></a></li><li><a class="wp-block-latest-posts__post-title" href="/upsrtc-bus-conductor-august26/">UPSRTC उत्तर प्रदेश राज्य सड़क परिवहन निगम Bus Conductor Gonda, Bahraich, Balrampur Outsourcing Recruitment Online Form 2026</a></li><li><a class="wp-block-latest-posts__post-title" href="/hphc-various-post-august26/">Himachal Pradesh HP High Court Various Post Recruitment 2026 Apply Online for 388 Post</a></li></ul>
 <div class="wp-block-buttons is-content-justification-right is-layout-flex wp-container-core-buttons-is-layout-89b4c9e9 wp-block-buttons-is-layout-flex">
 <div class="wp-block-button"><a class="wp-block-button__link has-base-color has-accent-2-background-color has-text-color has-background has-link-color wp-element-button" href="/latest-jobs/" rel="noreferrer noopener" target="_blank"><strong>View More</strong></a></div>
 </div>
